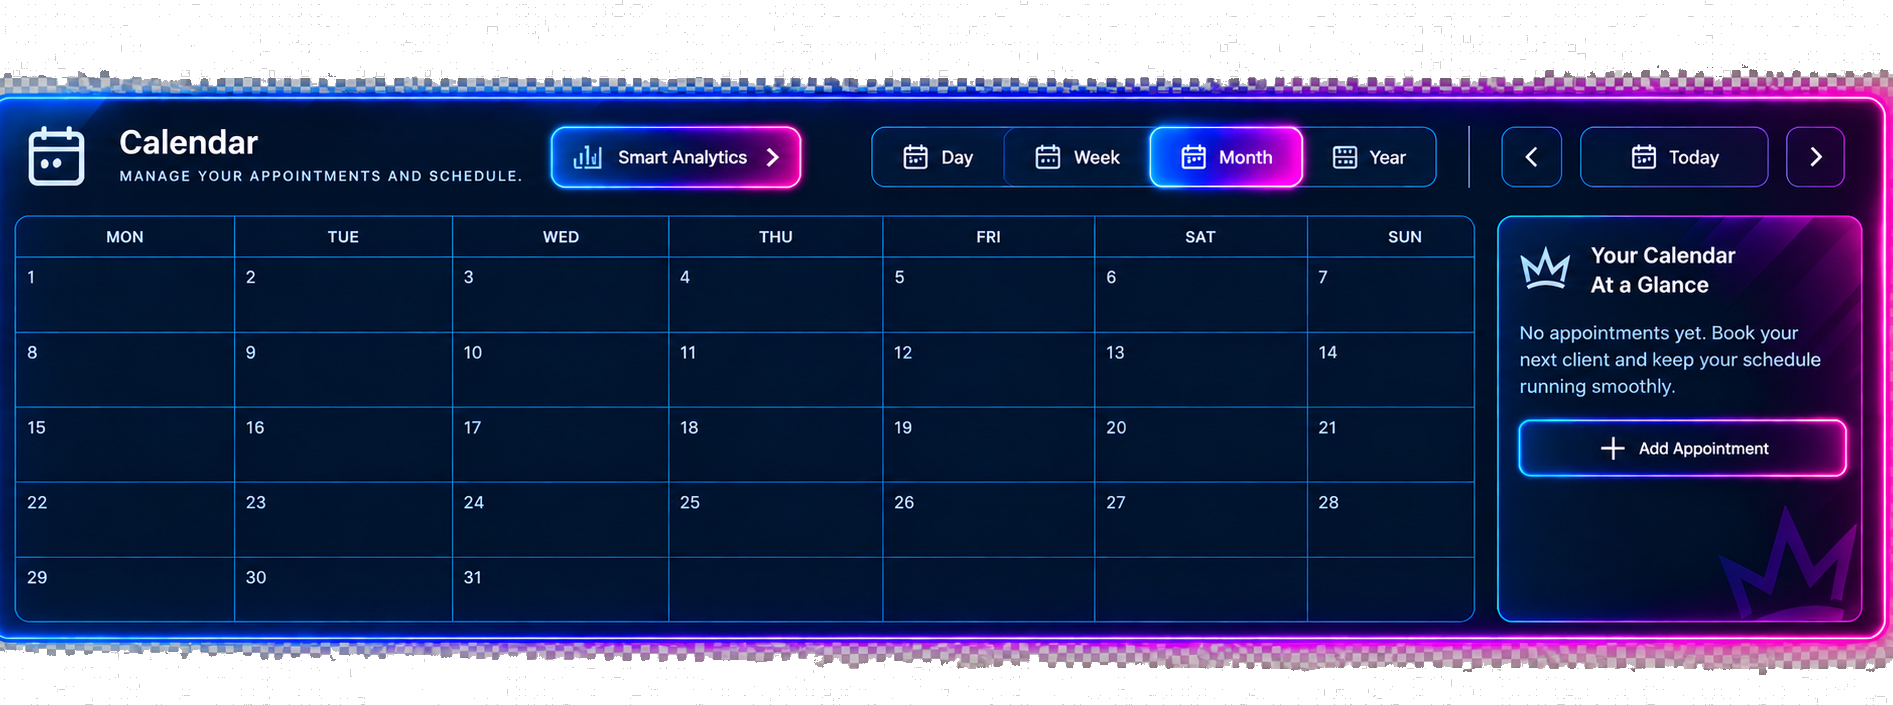
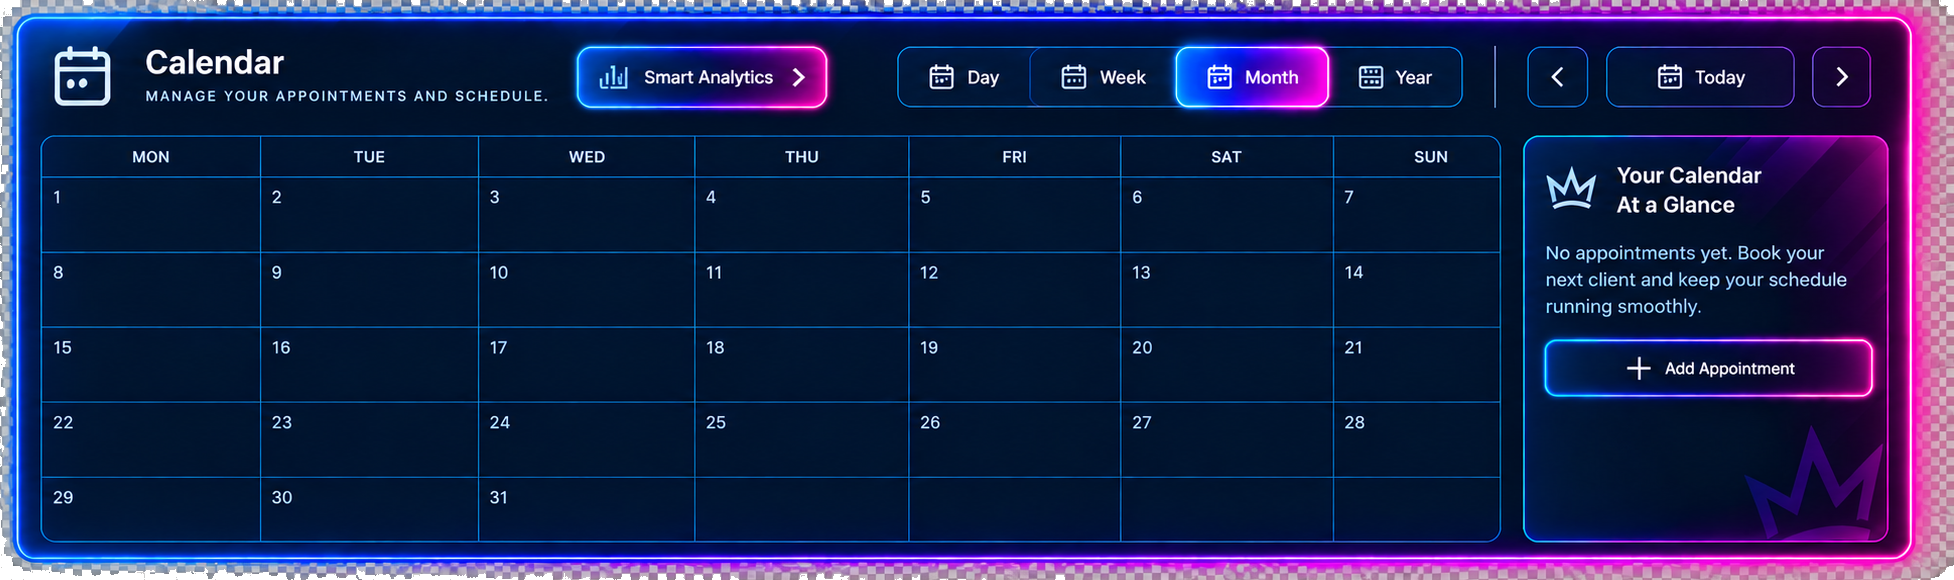
Fix Calendar shell: active-view highlight, period display, month/year/week issues, artwork cleanup
1. Day/Week/Month/Year tabs: the baked artwork always shows "Month" as
   active regardless of the real selected view. That row is now patched
   over and replaced with four real tab buttons with their own dynamic
   active state (POLAR cyan/magenta gradient), matching `view`.

2. The static "Today" control is replaced with a real dynamic period
   display (full date / week range / month / year, per view) plus a
   small separate Today shortcut — both patched over the same baked
   row. Prev/Next continue navigating relative to the selected view
   (unchanged logic).

3. Month view: the real day-number patch over the artwork's own baked
   example numbers (which only match one specific month/year) was too
   small, letting the baked digit show through/behind the real one.
   Enlarged to comfortably cover it. Weekday alignment and days-per-
   month (leap years included) were already computed correctly via
   `Date.UTC` — re-verified, no change needed there.

4. Year view: the 12-month grid now has min-h-0 + overflow-y-auto so
   if content doesn't fit the available height, only that inner area
   scrolls — the page itself never does. All 12 months remain
   reachable and clickable.

5. Week view no longer labels a day "Free" just because it has no
   bookings. A day with real configured availability and no bookings
   now says "Available"; a day with no availability configured says
   "No availability set" instead of a misleading "Free". No OFF/SICK
   behaviour invented.
[…]

diff --git a/src/app/dashboard/barber/calendar/calendar-view.tsx b/src/app/dashboard/barber/calendar/calendar-view.tsx
@@ -14,34 +14,44 @@ export type MonthCell = { date: string; day: number; count: number; isFullyBooke
 type Service = { id: string; name: string; durationMinutes: number; price: number };
 type Client = { id: string; fullName: string };
 
-const ASSET_ASPECT = "1893 / 705";
+// Asset replaced (checkerboard-noise cleanup) — its canvas is now
+// 1954x580; every box below was re-measured against it (the original
+// coordinates were re-derived via the exact crop-offset transform
+// between the old and new canvases, not re-eyeballed).
+const ASSET_ASPECT = "1954 / 580";
 
-// Every box below is measured directly against the mastered asset's
-// own cropped canvas (pixel-level border scan), same technique used
-// throughout the Barber Portal.
-const SMART_ANALYTICS_BOX = { left: "29.42%", top: "18.16%", width: "12.84%", height: "8.79%" };
-const DAY_TAB_BOX = { left: "46.38%", top: "18.72%", width: "6.07%", height: "7.66%" };
-const WEEK_TAB_BOX = { left: "53.09%", top: "18.72%", width: "6.87%", height: "7.66%" };
-const MONTH_TAB_BOX = { left: "60.64%", top: "18.16%", width: "7.50%", height: "8.79%" };
-const YEAR_TAB_BOX = { left: "68.67%", top: "18.72%", width: "6.34%", height: "7.66%" };
-const PREV_BOX = { left: "80.30%", top: "18.72%", width: "2.64%", height: "7.66%" };
-const TODAY_BOX = { left: "84.52%", top: "18.16%", width: "8.72%", height: "8.79%" };
-const NEXT_BOX = { left: "94.56%", top: "18.72%", width: "2.64%", height: "7.66%" };
+const SMART_ANALYTICS_BOX = { left: "29.83%", top: "8.28%", width: "12.44%", height: "10.68%" };
 
-const GRID_AREA_BOX = { left: "0.74%", top: "29.08%", width: "77.18%", height: "59.15%" };
-const GRID_LEFT = 0.74;
-const GRID_TOP = 36.17;
-const COL_WIDTH = 11.02;
-const ROW_HEIGHT = 10.41;
+// Day/Week/Month/Year — the mastered artwork always bakes "Month" as
+// the visually active tab, which is wrong whenever another view is
+// selected. That whole row is patched over and replaced with four
+// real tab buttons carrying their own dynamic active state instead.
+const TAB_ROW_BOX = { left: "45.6%", top: "7.6%", width: "28.6%", height: "12%" };
 
-const ADD_APPOINTMENT_BOX = { left: "80.19%", top: "60.57%", width: "17.43%", height: "6.38%" };
-const RIGHT_TEXT_PATCH_BOX = { left: "80.19%", top: "46.10%", width: "17.43%", height: "13.48%" };
+// Prev/Today/Next — replaced with a real dynamic period label (Fix 2)
+// plus a small separate Today shortcut, so this whole row is patched
+// over too.
+const NAV_ROW_BOX = { left: "78.6%", top: "7.6%", width: "17.4%", height: "12%" };
+
+const GRID_AREA_BOX = { left: "2.05%", top: "21.55%", width: "74.77%", height: "71.90%" };
+const GRID_LEFT = 2.05;
+const GRID_TOP = 30.17;
+const COL_WIDTH = 10.68;
+const ROW_HEIGHT = 12.65;
+
+const ADD_APPOINTMENT_BOX = { left: "79.02%", top: "59.83%", width: "16.89%", height: "7.75%" };
+const RIGHT_TEXT_PATCH_BOX = { left: "79.02%", top: "42.24%", width: "16.89%", height: "16.39%" };
 
 const CELL_FILL = "#011530";
 const PANEL_FILL = "#00102c";
+const HEADER_FILL = "#050f37";
 
 const HIT_AREA_CLASS =
   "absolute rounded-2xl bg-transparent transition duration-200 ease-out hover:shadow-[0_0_18px_4px_rgba(91,155,255,0.4),0_0_26px_8px_rgba(255,61,154,0.22)]";
+
+const TAB_ACTIVE_CLASS =
+  "bg-gradient-to-r from-royal to-magenta text-white shadow-[0_0_14px_-2px_rgba(91,155,255,0.7)]";
+const TAB_INACTIVE_CLASS = "border border-royal-light/30 text-white/80 hover:bg-white/5";
 
 function pad(n: number): string {
   return String(n).padStart(2, "0");
@@ -71,6 +81,39 @@ function dayLabel(dateStr: string): string {
     month: "long",
     timeZone: "UTC",
   });
+}
+function fullDateLabel(dateStr: string): string {
+  return new Date(`${dateStr}T00:00:00Z`).toLocaleDateString("en-GB", {
+    day: "numeric",
+    month: "long",
+    year: "numeric",
+    timeZone: "UTC",
+  });
+}
+function startOfWeekMonday(dateStr: string): string {
+  const d = new Date(`${dateStr}T00:00:00Z`);
+  const mondayIndex = (d.getUTCDay() + 6) % 7;
+  d.setUTCDate(d.getUTCDate() - mondayIndex);
+  return d.toISOString().slice(0, 10);
+}
+function weekRangeLabel(dateStr: string): string {
+  const start = startOfWeekMonday(dateStr);
+  const end = addDays(start, 6);
+  const startDate = new Date(`${start}T00:00:00Z`);
+  const endDate = new Date(`${end}T00:00:00Z`);
+  const sameMonth = startDate.getUTCMonth() === endDate.getUTCMonth() && startDate.getUTCFullYear() === endDate.getUTCFullYear();
+  if (sameMonth) {
+    return `${startDate.getUTCDate()} – ${endDate.toLocaleDateString("en-GB", { day: "numeric", month: "long", year: "numeric", timeZone: "UTC" })}`;
+  }
+  const startFmt = startDate.toLocaleDateString("en-GB", { day: "numeric", month: "short", timeZone: "UTC" });
+  const endFmt = endDate.toLocaleDateString("en-GB", { day: "numeric", month: "long", year: "numeric", timeZone: "UTC" });
+  return `${startFmt} – ${endFmt}`;
+}
+function periodLabel(view: ViewKind, dateStr: string): string {
+  if (view === "day") return fullDateLabel(dateStr);
+  if (view === "week") return weekRangeLabel(dateStr);
+  if (view === "year") return dateStr.slice(0, 4);
+  return monthLabel(dateStr);
 }
 function money(n: number): string {
   return `£${n.toFixed(2)}`;
@@ -149,7 +192,7 @@ export function CalendarView({
   todaySummary: { count: number; nextTime: string | null };
   monthCells: MonthCell[] | null;
   dayData: { availability: { startTime: string; endTime: string }[]; bookings: CalendarBooking[] } | null;
-  weekDays: { date: string; label: string; count: number; isFullyBooked: boolean }[] | null;
+  weekDays: { date: string; label: string; count: number; isFullyBooked: boolean; hasAvailability: boolean }[] | null;
   yearMonths: { month: number; label: string; cells: MonthCell[] }[] | null;
 }) {
   const [activeSlot, setActiveSlot] = useState<{ start: string; end: string } | null>(null);
@@ -265,14 +308,59 @@ export function CalendarView({
                 is intentionally not built yet (out of scope). */}
             <Link href="/dashboard/barber/calendar/analytics" className={HIT_AREA_CLASS} style={SMART_ANALYTICS_BOX} aria-label="Smart Analytics" />
 
-            <Link href={`?view=day&date=${date}`} className={HIT_AREA_CLASS} style={DAY_TAB_BOX} aria-label="Day view" />
-            <Link href={`?view=week&date=${date}`} className={HIT_AREA_CLASS} style={WEEK_TAB_BOX} aria-label="Week view" />
-            <Link href={`?view=month&date=${date}`} className={HIT_AREA_CLASS} style={MONTH_TAB_BOX} aria-label="Month view" />
-            <Link href={`?view=year&date=${date}`} className={HIT_AREA_CLASS} style={YEAR_TAB_BOX} aria-label="Year view" />
+            {/* Day/Week/Month/Year — the baked artwork always shows
+                "Month" as active regardless of the real selected
+                view, so this whole row is patched over and replaced
+                with real tab buttons carrying their own dynamic
+                active state (POLAR cyan/magenta gradient when
+                active). */}
+            <div className="absolute flex items-stretch" style={{ ...TAB_ROW_BOX, gap: "2%" }}>
+              <div className="absolute inset-0 -m-[6%] rounded-xl" style={{ backgroundColor: HEADER_FILL }} aria-hidden="true" />
+              {(["day", "week", "month", "year"] as ViewKind[]).map((v) => (
+                <Link
+                  key={v}
+                  href={`?view=${v}&date=${date}`}
+                  className={`relative flex flex-1 items-center justify-center rounded-lg font-body capitalize transition ${view === v ? TAB_ACTIVE_CLASS : TAB_INACTIVE_CLASS}`}
+                  style={{ fontSize: "0.85vw" }}
+                >
+                  {v}
+                </Link>
+              ))}
+            </div>
 
-            <Link href={prevHref} className={HIT_AREA_CLASS} style={PREV_BOX} aria-label="Previous" />
-            <Link href={todayHref} className={HIT_AREA_CLASS} style={TODAY_BOX} aria-label="Today" />
-            <Link href={nextHref} className={HIT_AREA_CLASS} style={NEXT_BOX} aria-label="Next" />
+            {/* Prev / dynamic period label / small Today shortcut /
+                Next — replaces the baked static "Today" control,
+                which is patched over the same way as the tab row. */}
+            <div className="absolute flex items-center" style={{ ...NAV_ROW_BOX, gap: "3%" }}>
+              <div className="absolute inset-0 -m-[6%] rounded-xl" style={{ backgroundColor: HEADER_FILL }} aria-hidden="true" />
+              <Link
+                href={prevHref}
+                aria-label="Previous"
+                className="relative flex flex-none items-center justify-center rounded-lg border border-royal-light/30 text-white/80 transition hover:bg-white/5"
+                style={{ width: "14%", height: "100%", fontSize: "0.85vw" }}
+              >
+                ‹
+              </Link>
+              <p className="relative flex-1 truncate text-center text-white" style={{ fontSize: "0.78vw" }}>
+                {periodLabel(view, date)}
+              </p>
+              <Link
+                href={todayHref}
+                aria-label="Jump to today"
+                className="relative flex-none rounded-lg border border-royal-light/40 px-[6%] py-[8%] text-royal-light transition hover:bg-royal-light/10"
+                style={{ fontSize: "0.68vw" }}
+              >
+                Today
+              </Link>
+              <Link
+                href={nextHref}
+                aria-label="Next"
+                className="relative flex flex-none items-center justify-center rounded-lg border border-royal-light/30 text-white/80 transition hover:bg-white/5"
+                style={{ width: "14%", height: "100%", fontSize: "0.85vw" }}
+              >
+                ›
+              </Link>
+            </div>
 
             {/* Right panel — permanent copy + real today summary
                 patched over the baked example text; the artwork's own
@@ -316,14 +404,19 @@ export function CalendarView({
                       className="absolute overflow-hidden transition hover:bg-white/[0.04]"
                       style={box}
                     >
+                      {/* Generous patch — comfortably covers the
+                          baked artwork's own example day number
+                          (which only matches one specific month/year)
+                          including its glow, so the real number below
+                          never doubles up with it. */}
                       <div
                         className="absolute"
-                        style={{ left: "6%", top: "8%", width: "26%", height: "30%", backgroundColor: CELL_FILL }}
+                        style={{ left: "1%", top: "2%", width: "42%", height: "40%", backgroundColor: CELL_FILL }}
                         aria-hidden="true"
                       />
                       <p
                         className={`absolute font-body ${cell.isFullyBooked ? "text-white/35" : "text-white"}`}
-                        style={{ left: "6%", top: "8%", fontSize: "0.85vw" }}
+                        style={{ left: "7%", top: "8%", fontSize: "0.85vw" }}
                       >
                         {cell.day}
                       </p>
@@ -356,7 +449,11 @@ export function CalendarView({
                           >
                             <span className="text-white" style={{ fontSize: "0.75vw" }}>{d.label}</span>
                             <span className="mt-auto text-royal-light" style={{ fontSize: "0.7vw" }}>
-                              {d.count === 0 ? "Free" : `${d.count} booking${d.count === 1 ? "" : "s"}`}
+                              {d.count > 0
+                                ? `${d.count} booking${d.count === 1 ? "" : "s"}`
+                                : d.hasAvailability
+                                  ? "Available"
+                                  : "No availability set"}
                             </span>
                           </Link>
                         ))}
@@ -367,7 +464,14 @@ export function CalendarView({
                   {view === "year" && yearMonths && (
                     <>
                       <p className="font-display text-white" style={{ fontSize: "1vw" }}>{date.slice(0, 4)}</p>
-                      <div className="mt-[0.8%] grid flex-1 grid-cols-4 grid-rows-3" style={{ gap: "0.8%" }}>
+                      {/* min-h-0 lets this flex child actually shrink
+                          so overflow-y-auto can engage — otherwise a
+                          flex item defaults to never being smaller
+                          than its content, and any excess silently
+                          escapes the outer overflow-hidden instead of
+                          scrolling. Only this inner area ever scrolls,
+                          never the page itself. */}
+                      <div className="mt-[0.8%] grid min-h-0 flex-1 grid-cols-4 grid-rows-3 overflow-y-auto" style={{ gap: "0.8%" }}>
                         {yearMonths.map((m) => (
                           <Link
                             key={m.month}

diff --git a/src/app/dashboard/barber/calendar/page.tsx b/src/app/dashboard/barber/calendar/page.tsx
@@ -33,7 +33,7 @@ function buildMonthCells(year: number, month: number, summaries: Map<string, Day
   for (let day = 1; day <= daysInMonth; day++) {
     if (cells.length >= 35) break; // the mastered grid has exactly 5 rows x 7 cols
     const date = `${year}-${String(month).padStart(2, "0")}-${String(day).padStart(2, "0")}`;
-    const summary = summaries.get(date) ?? { count: 0, isFullyBooked: false };
+    const summary = summaries.get(date) ?? { count: 0, isFullyBooked: false, hasAvailability: false };
     cells.push({ date, day, count: summary.count, isFullyBooked: summary.isFullyBooked });
   }
   while (cells.length < 35) cells.push(null);
@@ -96,7 +96,7 @@ export default async function BarberCalendarPage({
 
   let monthCells: MonthCell[] | null = null;
   let dayData: { availability: { startTime: string; endTime: string }[]; bookings: Awaited<ReturnType<typeof getDayBookings>> } | null = null;
-  let weekDays: { date: string; label: string; count: number; isFullyBooked: boolean }[] | null = null;
+  let weekDays: { date: string; label: string; count: number; isFullyBooked: boolean; hasAvailability: boolean }[] | null = null;
   let yearMonths: { month: number; label: string; cells: MonthCell[] }[] | null = null;
 
   if (view === "month") {
@@ -124,8 +124,14 @@ export default async function BarberCalendarPage({
       const d = new Date(weekStart);
       d.setUTCDate(d.getUTCDate() + i);
       const dateStr = toDateStr(d);
-      const summary = summaries.get(dateStr) ?? { count: 0, isFullyBooked: false };
-      return { date: dateStr, label: `${label} ${d.getUTCDate()}`, count: summary.count, isFullyBooked: summary.isFullyBooked };
+      const summary = summaries.get(dateStr) ?? { count: 0, isFullyBooked: false, hasAvailability: false };
+      return {
+        date: dateStr,
+        label: `${label} ${d.getUTCDate()}`,
+        count: summary.count,
+        isFullyBooked: summary.isFullyBooked,
+        hasAvailability: summary.hasAvailability,
+      };
     });
   } else if (view === "year") {
     const summaries = await getDaySummaries(supabase, user.id, `${year}-01-01`, `${year}-12-31`);

diff --git a/src/lib/queries/barber-calendar.ts b/src/lib/queries/barber-calendar.ts
@@ -172,7 +172,7 @@ export async function getAvailabilityForDate(
   }));
 }
 
-export type DaySummary = { count: number; isFullyBooked: boolean };
+export type DaySummary = { count: number; isFullyBooked: boolean; hasAvailability: boolean };
 
 /**
  * Per-date summary for every real day in [startDate, endDateInclusive]
@@ -222,6 +222,7 @@ export async function getDaySummaries(
     summaries.set(date, {
       count: dayBookings.length,
       isFullyBooked: availableMinutes > 0 && bookedMinutes >= availableMinutes,
+      hasAvailability: availableMinutes > 0,
     });
     cursor.setUTCDate(cursor.getUTCDate() + 1);
   }
